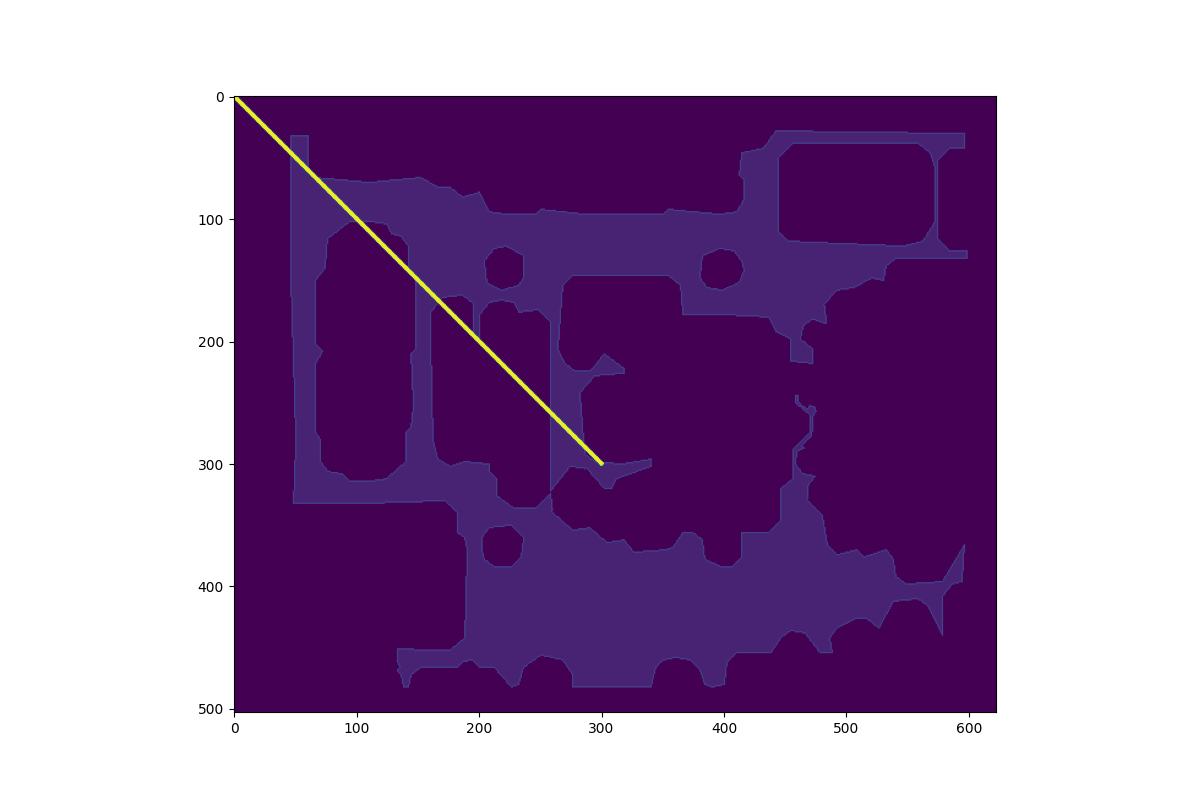
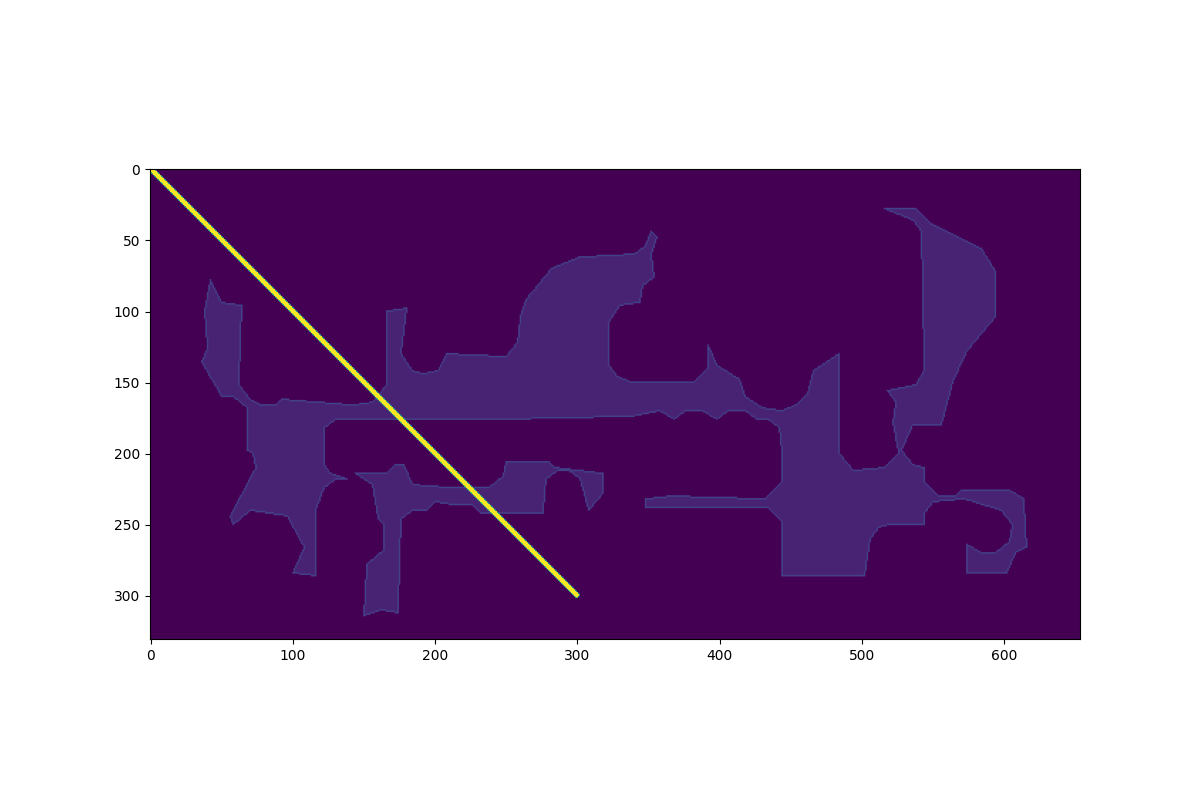
Fixed follower and goal postion, craeted common script

diff --git a/scripts/follower_and_robot.py b/scripts/follower_and_robot.py
@@ -163,16 +163,15 @@ def map_to_base_link(msg, my_env):
     poseMsg.pose.orientation.z = 0.0
     poseMsg.pose.orientation.w = 1.0
     poseMsg.header.stamp = rospy.Time.now()
-    poseMsg.pose.position.x = follower_pose_2d[0]
-    poseMsg.pose.position.y = follower_pose_2d[1]
+    poseMsg.pose.position.x = my_env.initial_state[1][0]-1
+    poseMsg.pose.position.y = my_env.initial_state[1][1]-1
     poseMsg.pose.position.z = 0.0
     my_env._pub_follower.publish(poseMsg)
     goal_marker = Marker()
     goal_marker.header.frame_id = "decision_frame"
     goal_marker.type = 2
-    embed()
-    goal_marker.pose.position.x = my_env.initial_state[0][4]
-    goal_marker.pose.position.y = my_env.initial_state[0][5]
+    goal_marker.pose.position.x = my_env.initial_state[0][4]-1
+    goal_marker.pose.position.y = my_env.initial_state[0][5]-1
     goal_marker.pose.position.z = 0.0
     goal_marker.pose.orientation.x = 0.0
     goal_marker.pose.orientation.y = 0.0
@@ -337,14 +336,14 @@ class sim_env(threading.Thread):
         agents_initial_pos_3d.append(path.points[0])
         agents_goal_pos_3d.append(path.points[-1])
         sphere_template_id = obj_template_mgr.load_configs('./scripts/sphere')[0]
-        obj = rigid_obj_mgr.add_object_by_template_id(sphere_template_id)
+        file_obj = rigid_obj_mgr.add_object_by_template_id(sphere_template_id)
         # self.objs.append(obj)
         
-        obj_template_handle = './scripts/sphere.object_config.json'
-        obj_template = obj_template_mgr.get_template_by_handle(obj_template_handle)
-        print(obj_template)
-        file_obj = rigid_obj_mgr.add_object_by_template_handle(obj_template_handle) 
-        print(file_obj)
+        # obj_template_handle = './scripts/sphere.object_config.json'
+        # obj_template = obj_template_mgr.get_template_by_handle(obj_template_handle)
+        # print(obj_template)
+        # file_obj = rigid_obj_mgr.add_object_by_template_handle(obj_template_handle) 
+        # print(file_obj)
         file_obj.motion_type = habitat_sim.physics.MotionType.STATIC
         sphere_pos = agents_goal_pos_3d[-1]
         file_obj.translation = mn.Vector3(sphere_pos[0],sphere_pos[1], sphere_pos[2])
@@ -361,14 +360,14 @@ class sim_env(threading.Thread):
         ##### Follower Human being initiated #####
         human_template_id = obj_template_mgr.load_configs('./scripts/humantwo')[0]
         self.follower_id = human_template_id
-        obj = rigid_obj_mgr.add_object_by_template_id(human_template_id)
+        file_obj = rigid_obj_mgr.add_object_by_template_id(human_template_id)
         # self.objs.append(obj)
         
-        obj_template_handle = './scripts/humantwo.object_config.json'
-        obj_template = obj_template_mgr.get_template_by_handle(obj_template_handle)
-        print(obj_template)
-        file_obj = rigid_obj_mgr.add_object_by_template_handle(obj_template_handle) 
-        print(file_obj)
+        # obj_template_handle = './scripts/humantwo.object_config.json'
+        # obj_template = obj_template_mgr.get_template_by_handle(obj_template_handle)
+        # print(obj_template)
+        # file_obj = rigid_obj_mgr.add_object_by_template_handle(obj_template_handle) 
+        # print(file_obj)
         file_obj.motion_type = habitat_sim.physics.MotionType.KINEMATIC
         self.follower = file_obj
         orientation_x = 90  # @param {type:"slider", min:-180, max:180, step:1}
@@ -378,8 +377,9 @@ class sim_env(threading.Thread):
         rotation_y = mn.Quaternion.rotation(mn.Deg(orientation_y), mn.Vector3(0.0, 1.0, 0))
         rotation_z = mn.Quaternion.rotation(mn.Deg(orientation_z), mn.Vector3(0.0, 0, 1.0))
         object_orientation2 = rotation_z * rotation_y * rotation_x
-        robot_offset = self.env._sim.robot.base_pos - agent_state.position
-        set_object_state_from_agent(self.env._sim, self.follower, np.array(robot_offset - FOLLOWER_OFFSET), orientation = object_orientation2)
+        follower_pos_3d = self.env._sim.pathfinder.get_random_navigable_point_near(self.env._sim.robot.base_pos, 1)
+        follower_offset = follower_pos_3d - agent_state.position
+        set_object_state_from_agent(self.env._sim, self.follower, np.array(follower_offset), orientation = object_orientation2)
         self.follower_velocity_control = self.follower.velocity_control
         self.follower_velocity_control.controlling_lin_vel = True
         self.follower_velocity_control.controlling_ang_vel = True
@@ -584,7 +584,6 @@ class sim_env(threading.Thread):
             set_object_state_from_agent(self.env._sim, self.follower, offset= human_state.translation - agent_state.position, orientation = object_orientation2)
             if(self.goal_dist[1]>self.goal_dist[0]):
                 self.follower_velocity_control.linear_velocity = [computed_velocity[1,0], 0.0,  computed_velocity[1,1]]
-                embed()
             else:
                 self.follower_velocity_control.linear_velocity = [0.0,0.0,0.0]
         else:

diff --git a/scripts/get_topdown_map.py b/scripts/get_topdown_map.py
@@ -78,9 +78,11 @@ def main():
         config = yaml.load(file, Loader=yaml.FullLoader)
         config['DATASET']['DATA_PATH'] = "./data/datasets/pointnav/mp3d/v1/test/content/"+scene+"0.json.gz"
     with open("configs/tasks/custom_rearrange.yml",'w') as file:
+        print("Replacing the data config to the new scene ", scene)
         documents = yaml.dump(config, file)
     #first parameter is config path, second parameter is map name
-    get_topdown_map("configs/tasks/custom_rearrange.yml", "resolution_"+scene+"_"+str(meters_per_pixel))
+    if (not os.path.isfile("./maps/resolution_"+scene+"_"+str(meters_per_pixel)+".pgm")): 
+        get_topdown_map("configs/tasks/custom_rearrange.yml", "resolution_"+scene+"_"+str(meters_per_pixel))
 
 if __name__ == "__main__":
     main()

diff --git a/scripts/run_new_scene.py b/scripts/run_new_scene.py
@@ -1,0 +1,12 @@
+import os 
+import argparse
+from IPython import embed
+PARSER = argparse.ArgumentParser(description=None)
+PARSER.add_argument('-s', '--scene', default="17DRP5sb8fy", type=str, help='scene')
+ARGS = PARSER.parse_args()
+scene = ARGS.scene
+
+if (not os.path.isfile("./data/datasets/pointnav/mp3d/v1/test/content/"+scene+"0.json.gz")):     
+    __ = os.system('python ./scripts/rearrangement_episode.py --scene '+ scene)
+__ = os.system('python ./scripts/get_topdown_map.py --scene '+ scene + ' --mps 0.025')
+__ = os.system('python ./scripts/follower_and_robot.py --scene '+ scene)

diff --git a/scripts/get_trajectory.py b/scripts/get_trajectory.py
@@ -113,7 +113,7 @@ class social_force():
         # update 80 steps
         
         if(save_anim):
-            s.step(80)
+            s.step(1)
             with psf.plot.SceneVisualizer(s, "/PySocialForce/images/"+filename) as sv:
                 # sv.animate()
                 sv.plot()
